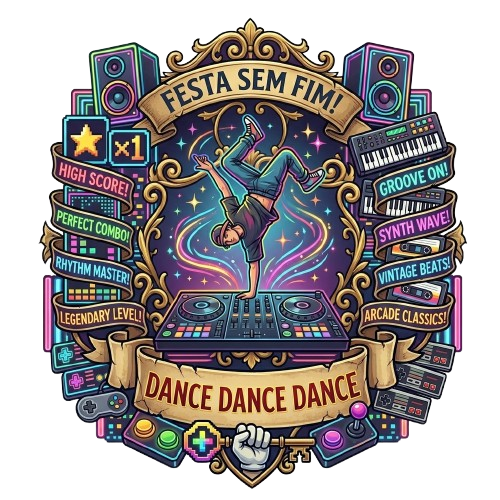
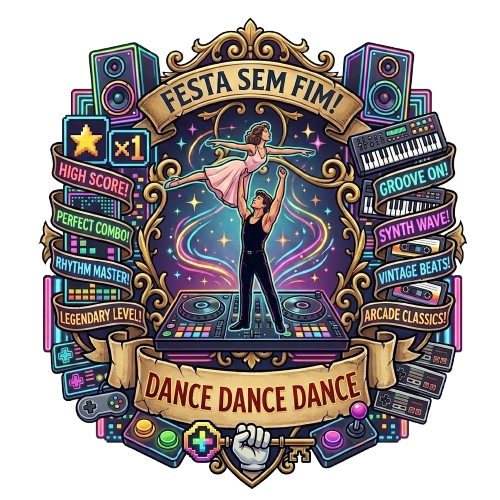
fixed: bugs vibrate and music

Changed region(s): [[0.3, 0.21, 0.66, 0.69]]

diff --git a/app/page.tsx b/app/page.tsx
@@ -32,6 +32,15 @@ export default function MoviePops() {
   const [justUnlocked, setJustUnlocked] = useState<Set<string>>(new Set());
   const [justSilver, setJustSilver] = useState<Set<string>>(new Set());
   const [unlockNotifications, setUnlockNotifications] = useState<Trophy[]>([]);
+  const vibrate = (pattern: number | number[]) => {
+    if (
+      typeof window !== "undefined" &&
+      typeof navigator !== "undefined" &&
+      navigator.vibrate
+    ) {
+      navigator.vibrate(pattern);
+    }
+  };
 
   const handleUseHint = useCallback((songId: number) => {
     setUsedHintIds((prev) => new Set(prev).add(songId));
@@ -97,7 +106,7 @@ export default function MoviePops() {
         const wasActive = prevProgress === 100;
         const isActive = nextProgress === 100;
 
-        const wasSilver = prevProgress >= 50;
+        const wasSilver = prevProgress >= 50 && prevProgress < 100;
 
         const isSilver = nextProgress >= 50 && nextProgress < 100;
 
@@ -112,19 +121,26 @@ export default function MoviePops() {
         }
       });
 
+      if (newlyUnlocked.size > 0) {
+        vibrate([200, 100, 200, 100, 300]);
+      } else if (newlySilver.size > 0) {
+        vibrate([100, 80, 100]);
+      } else {
+        vibrate(100);
+      }
+
       if (newlyUnlocked.size > 0 || newlySilver.size > 0) {
         setJustUnlocked(newlyUnlocked);
         setJustSilver(newlySilver);
         const unlockedTrophies = TROPHIES.filter(
-          (t) =>
-            newlyUnlocked.has(t.id) ||
-            newlySilver.has(t.id)
+          (t) => newlyUnlocked.has(t.id) || newlySilver.has(t.id)
         );
         setUnlockNotifications(unlockedTrophies);
         setTimeout(() => {
           setJustUnlocked(new Set());
+          setJustSilver(new Set());
           setUnlockNotifications([]);
-        }, 3500);
+        }, 5000);
       }
       return next;
     });
@@ -138,6 +154,7 @@ export default function MoviePops() {
       setCorrectIds(new Set());
       setJustUnlocked(new Set());
       setUsedHintIds(new Set());
+      setJustSilver(new Set());
       localStorage.removeItem(STORAGE_KEY);
     }
   };
@@ -244,6 +261,7 @@ export default function MoviePops() {
           gap: 12px;
         }
       `}</style>
+      
 
       {/* Navbar */}
       <Navbar
@@ -332,6 +350,7 @@ export default function MoviePops() {
             </span>
             {showTrophies ? "Esconder troféus" : "Mostrar troféus"}
           </button>
+          
         </div>
 
         {/* TROPHY SHELF */}
@@ -347,7 +366,7 @@ export default function MoviePops() {
         >
           <div
             style={{
-              overflow: "hidden",
+              // overflow: "hidden",
             }}
           >
             <div
@@ -462,148 +481,138 @@ export default function MoviePops() {
         }}
       >
         {unlockNotifications.map((trophy) => {
-  const isSilver = justSilver.has(trophy.id);
+          const isSilver = justSilver.has(trophy.id);
 
-  return (
-    <div
-      key={trophy.id}
-      style={{
-        width: 300,
-        padding: "14px 16px",
-        borderRadius: 18,
-        display: "flex",
-        alignItems: "center",
-        gap: 14,
-        background: dark
-          ? `
+          return (
+            <div
+              key={trophy.id}
+              style={{
+                width: 300,
+                padding: "14px 16px",
+                borderRadius: 18,
+                display: "flex",
+                alignItems: "center",
+                gap: 14,
+                background: dark
+                  ? `
             linear-gradient(
               180deg,
               ${trophy.colors.bgD},
               #0f172a
             )
           `
-          : `
+                  : `
             linear-gradient(
               180deg,
               ${trophy.colors.bg},
               #ffffff
             )
           `,
-        border: `2px solid ${
-          isSilver
-            ? "#cbd5e1"
-            : trophy.colors.border
-        }`,
-        boxShadow: isSilver
-          ? "0 12px 30px rgba(255,255,255,.25)"
-          : `0 12px 30px ${trophy.colors.glow}55`,
-        overflow: "hidden",
-        position: "relative",
-      }}
-    >
-      <div
-        style={{
-          position: "absolute",
-          top: -30,
-          right: -30,
-          width: 80,
-          height: 80,
-          borderRadius: "50%",
-          background: isSilver
-            ? "#e5e7eb"
-            : trophy.colors.glow,
-          opacity: 0.25,
-          filter: "blur(24px)",
-        }}
-      />
+                border: `2px solid ${
+                  isSilver ? "#cbd5e1" : trophy.colors.border
+                }`,
+                boxShadow: isSilver
+                  ? "0 12px 30px rgba(255,255,255,.25)"
+                  : `0 12px 30px ${trophy.colors.glow}55`,
+                overflow: "hidden",
+                position: "relative",
+              }}
+            >
+              <div
+                style={{
+                  position: "absolute",
+                  top: -30,
+                  right: -30,
+                  width: 80,
+                  height: 80,
+                  borderRadius: "50%",
+                  background: isSilver ? "#e5e7eb" : trophy.colors.glow,
+                  opacity: 0.25,
+                  filter: "blur(24px)",
+                }}
+              />
 
-      <div
-        style={{
-          width: 62,
-          height: 62,
-          borderRadius: 16,
-          display: "flex",
-          alignItems: "center",
-          justifyContent: "center",
-          background: isSilver
-            ? "rgba(255,255,255,.12)"
-            : trophy.colors.border + "22",
+              <div
+                style={{
+                  width: 62,
+                  height: 62,
+                  borderRadius: 16,
+                  display: "flex",
+                  alignItems: "center",
+                  justifyContent: "center",
+                  background: isSilver
+                    ? "rgba(255,255,255,.12)"
+                    : trophy.colors.border + "22",
 
-          border: `2px solid ${
-            isSilver
-              ? "#cbd5e1"
-              : trophy.colors.border
-          }`,
+                  border: `2px solid ${
+                    isSilver ? "#cbd5e1" : trophy.colors.border
+                  }`,
 
-          flexShrink: 0,
-          overflow: "hidden",
-        }}
-      >
-        <Image
-          src={trophy.image}
-          alt={trophy.name}
-          width={54}
-          height={54}
-          style={{
-            objectFit: "contain",
+                  flexShrink: 0,
+                  overflow: "hidden",
+                }}
+              >
+                <Image
+                  src={trophy.image}
+                  alt={trophy.name}
+                  width={54}
+                  height={54}
+                  style={{
+                    objectFit: "contain",
 
-            filter: isSilver
-              ? `
+                    filter: isSilver
+                      ? `
                 grayscale(1)
                 brightness(1.4)
                 contrast(1.1)
               `
-              : "none",
-          }}
-        />
-      </div>
+                      : "none",
+                  }}
+                />
+              </div>
 
-      <div
-        style={{
-          display: "flex",
-          flexDirection: "column",
-          gap: 3,
-        }}
-      >
-        <span
-          style={{
-            fontSize: 11,
-            fontWeight: 900,
-            letterSpacing: "0.08em",
-            color: isSilver
-              ? "#e2e8f0"
-              : trophy.colors.border,
-          }}
-        >
-          {isSilver
-            ? "🥈 TROFÉU PRATA"
-            : "🏆 NOVO TROFÉU"}
-        </span>
+              <div
+                style={{
+                  display: "flex",
+                  flexDirection: "column",
+                  gap: 3,
+                }}
+              >
+                <span
+                  style={{
+                    fontSize: 11,
+                    fontWeight: 900,
+                    letterSpacing: "0.08em",
+                    color: isSilver ? "#e2e8f0" : trophy.colors.border,
+                  }}
+                >
+                  {isSilver ? "🥈 TROFÉU PRATA" : "🏆 NOVO TROFÉU"}
+                </span>
 
-        <span
-          style={{
-            fontSize: 16,
-            fontWeight: 900,
-            color: dark ? "#fff" : "#0f172a",
-          }}
-        >
-          {trophy.name}
-        </span>
+                <span
+                  style={{
+                    fontSize: 16,
+                    fontWeight: 900,
+                    color: dark ? "#fff" : "#0f172a",
+                  }}
+                >
+                  {trophy.name}
+                </span>
 
-        <span
-          style={{
-            fontSize: 12,
-            color: dark ? "#cbd5e1" : "#475569",
-          }}
-        >
-          {isSilver
-            ? "50% do troféu concluído!"
-            : "Conquista desbloqueada!"}
-        </span>
-      </div>
-    </div>
-  );
-})}
+                <span
+                  style={{
+                    fontSize: 12,
+                    color: dark ? "#cbd5e1" : "#475569",
+                  }}
+                >
+                  {isSilver
+                    ? "50% do troféu concluído!"
+                    : "Conquista desbloqueada!"}
+                </span>
+              </div>
+            </div>
+          );
+        })}
       </div>
 
       {/* Footer */}

diff --git a/app/components/TrophyCard.tsx b/app/components/TrophyCard.tsx
@@ -24,9 +24,9 @@ export default function TrophyCard({
   const rarity =
     trophy.required.length >= 10
       ? "LENDÁRIO"
-      : trophy.required.length >= 6
+      : trophy.required.length >= 8
       ? "ÉPICO"
-      : trophy.required.length >= 4
+      : trophy.required.length >= 6
       ? "RARO"
       : "COMUM";
 
@@ -410,7 +410,7 @@ export default function TrophyCard({
   `
               : "grayscale(1) brightness(.55)",
 
-            overflow: "hidden",
+            // overflow: "hidden",
           }}
         >
           <Image